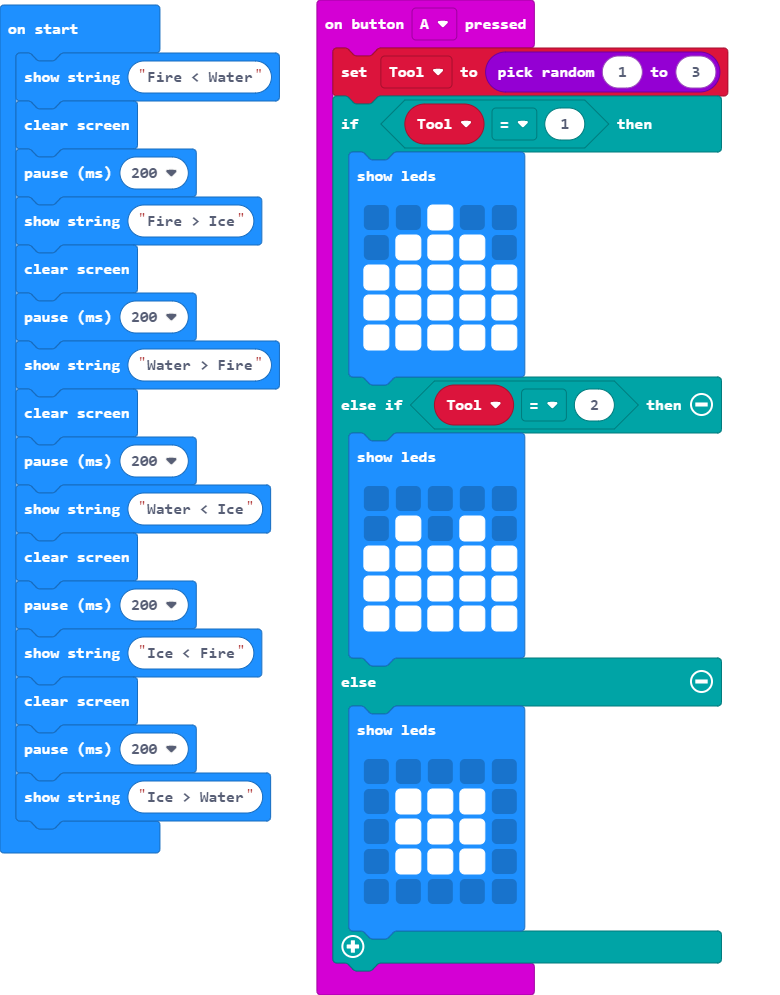
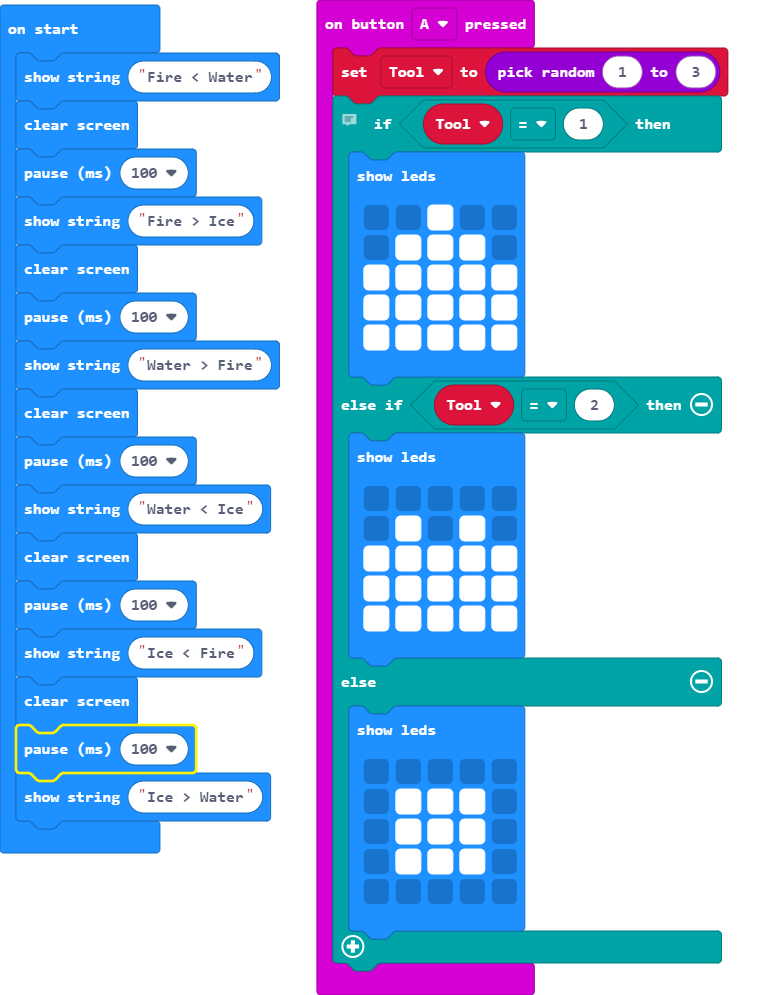
I added a note.

diff --git a/main.ts b/main.ts
@@ -1,5 +1,6 @@
 input.onButtonPressed(Button.A, function () {
     Tool = randint(1, 3)
+    // This project is a variation of rock, paper and scissors. It is fun to guess what will come next in this game of elements. 
     if (Tool == 1) {
         basic.showLeds(`
             . . # . .
@@ -29,17 +30,17 @@ input.onButtonPressed(Button.A, function () {
 let Tool = 0
 basic.showString("Fire < Water")
 basic.clearScreen()
-basic.pause(200)
+basic.pause(100)
 basic.showString("Fire > Ice")
 basic.clearScreen()
-basic.pause(200)
+basic.pause(100)
 basic.showString("Water > Fire")
 basic.clearScreen()
-basic.pause(200)
+basic.pause(100)
 basic.showString("Water < Ice")
 basic.clearScreen()
-basic.pause(200)
+basic.pause(100)
 basic.showString("Ice < Fire")
 basic.clearScreen()
-basic.pause(200)
+basic.pause(100)
 basic.showString("Ice > Water")
